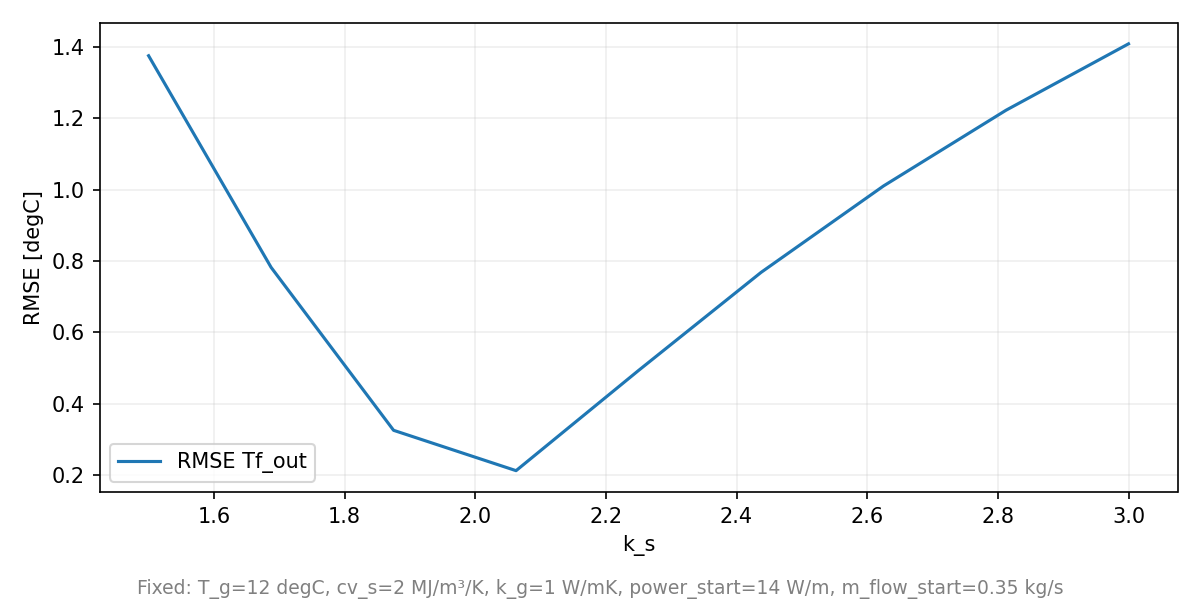
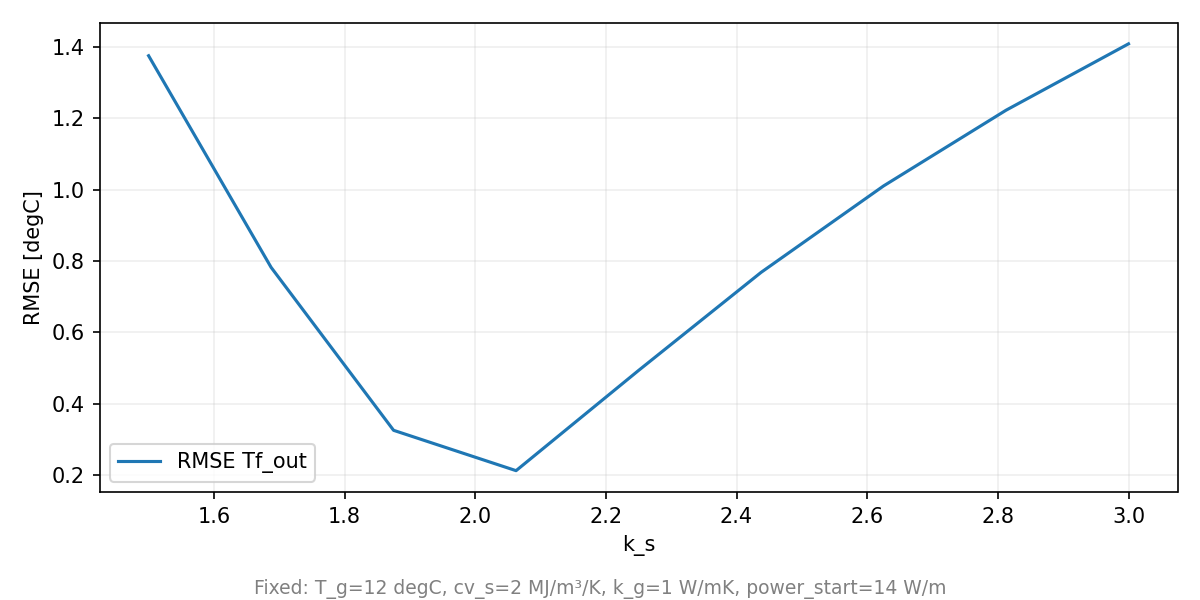
sensitivity update

Changed region(s): [[0.1233, 0.96, 0.8942, 1.0]]

diff --git a/example_opti.py b/example_opti.py
@@ -159,7 +159,6 @@ def run_sensitivity_sweep(
                 value = value / 1.0e6
             unit = units.get(name, "")
             fixed.append(f"{name}={value:.6g} {unit}".rstrip())
-        fixed.append(f"m_flow_start={starts['m_flow_start']:.6g} {units['m_flow_start']}")
         return "Fixed: " + ", ".join(fixed)
 
     for param in sweep_params:
@@ -370,7 +369,26 @@ def run_sensitivity_sweep_2d(
     )
     df_grid.to_csv(out_dir / "sensitivity_2d_k_s_cv_s.csv", index=False)
 
-    plot_sensitivity_2d(ks_grid, cvs_grid, z_rmse, out_dir / "sensitivity_2d_k_s_cv_s.png")
+    def format_fixed_values_2d() -> str:
+        fixed = []
+        units_2d = {
+            "T_g": "degC",
+            "k_g": "W/mK",
+            "power_start": "W/m",
+        }
+        for name in ["T_g", "k_g", "power_start"]:
+            value = starts[name]
+            unit = units_2d.get(name, "")
+            fixed.append(f"{name}={value:.6g} {unit}".rstrip())
+        return "Fixed: " + ", ".join(fixed)
+
+    plot_sensitivity_2d(
+        ks_grid,
+        cvs_grid,
+        z_rmse,
+        out_dir / "sensitivity_2d_k_s_cv_s.png",
+        note=format_fixed_values_2d(),
+    )
 
 
 def objective_factory(

diff --git a/shared_utils.py b/shared_utils.py
@@ -443,14 +443,17 @@ def plot_sensitivity_combined(combined: dict, out_path: Path, note: str | None =
     plt.close(fig)
 
 
-def plot_sensitivity_2d(ks_grid, cvs_grid, z_rmse, out_path: Path):
+def plot_sensitivity_2d(ks_grid, cvs_grid, z_rmse, out_path: Path, note: str | None = None):
     fig, ax = plt.subplots(1, 1, figsize=(7, 5))
     contour = ax.contourf(ks_grid, cvs_grid / 1.0e6, z_rmse, levels=15)
     fig.colorbar(contour, ax=ax, label="RMSE Tf_out [degC]")
     ax.set_xlabel("k_s [W/mK]")
     ax.set_ylabel("cv_s [MJ/m³/K]")
     ax.set_title("Sensitivity sweep: k_s vs cv_s")
+    if note:
+        fig.text(0.5, 0.02, note, fontsize=9, ha="center", va="bottom", color="gray")
     fig.tight_layout()
+    fig.subplots_adjust(bottom=0.18)
     fig.savefig(out_path, dpi=150)
     plt.close(fig)
 
